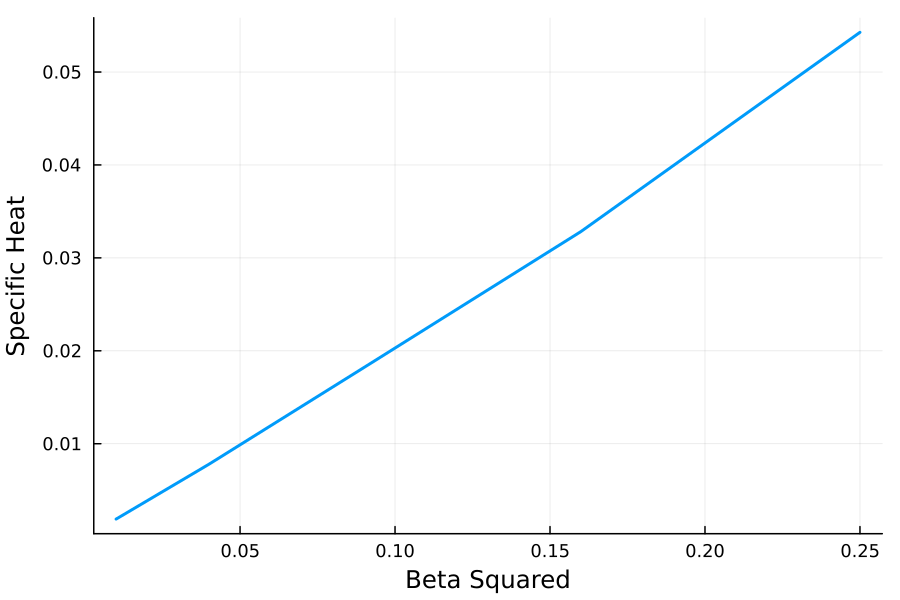
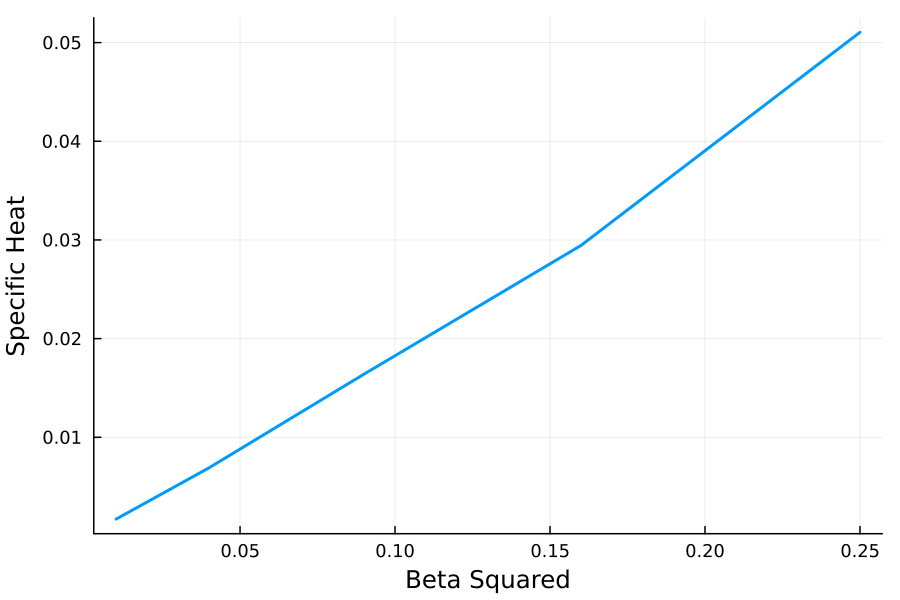
Drop the rng arguments from HandsOn2 (#23)
## Summary

Students filling in `sample_state` had to thread a generator they were
never going to use through to `rand`. It now takes just the MPS, and
`main` loses the keyword too. The figures stay reproducible by seeding
the global generator in `make_plots.jl`. Hands-On 2 and 3 also drop
`StableRNGs`, which neither uses any more.

---------

diff --git a/Tutorials/HandsOn2/README.md b/Tutorials/HandsOn2/README.md
@@ -34,6 +34,8 @@ julia> ]
 [...]
 ```
 
+Note that the first run may take a while due to compilation time, subsequent runs in the same session should be much faster if implemented properly.
+
 <a id="tutorial-1"></a>
 <details>
   <summary><h2>Tutorial 1: Complete a TEBD Implementation</h2></summary>
@@ -328,11 +330,11 @@ We are now going to run the METTS (minimally entangled thermal states) algorithm
 
 METTS reaches finite temperature by evolving in imaginary time rather than real time, which with tensor networks is just the substitution $dt \rightarrow - {\rm i} d \beta$. The script makes its gates with that substitution made, passing `-betastep` to `make_heisenberg_gates` where Tutorial 1 passes `-im * timestep`, so the loop is your `tebd` from Tutorial 1 and your `sample_state` from Tutorial 3 used together: evolve a product state to inverse temperature $\beta/2$, measure it, collapse it back to a product state by sampling it, and repeat.
 
-If your `sample_state` from Tutorial 3 is not working yet, replace both `sample_state(rng, psi)` calls in the METTS loop with ITensorMPS's own version:
+If your `sample_state` from Tutorial 3 is not working yet, replace both `sample_state(psi)` calls in the METTS loop with ITensorMPS's own version:
 ```julia
-            samp = ITensorMPS.sample!(rng, psi)
+            samp = ITensorMPS.sample!(psi)
 ```
-and come back to your own later. If your `tebd_step` from Tutorial 1 is also unfinished, the same trick works for the evolution: replace `tebd(gates, psi; cutoff)` in the loop with `apply(gates, psi; cutoff)`, which is ITensorMPS's own gate application function.
+and come back to your own later. Similarly, if your `tebd_step` from Tutorial 1 is unfinished, you can replace `tebd(gates, psi; cutoff)` in the loop with `apply(gates, psi; cutoff)`, which is ITensorMPS's own gate application function.
 
 1. Run the `main` function from `4-metts.jl` to get an estimate of the energy of the 1D Heisenberg chain at finite temperature (by default, `nsite = 10` and `beta = 4.0`):
 ```julia
@@ -392,6 +394,8 @@ Making METTS number 100
   Estimated Energy = -3.9331 +- 0.0247  [-3.9578,-3.9084]
   Sampled state: ["Z-", "Z-", "Z+", "Z+", "Z+", "Z-", "Z-", "Z+", "Z-", "Z+"]
 ```
+
+Note that the METTS algorithm is based on random sampling, so the output will vary from run to run.
 
 2. Next we will approximate the specific heat as a function of $\beta$. The specific heat can be approximated from the METTS algorithm via the following formula:
 
